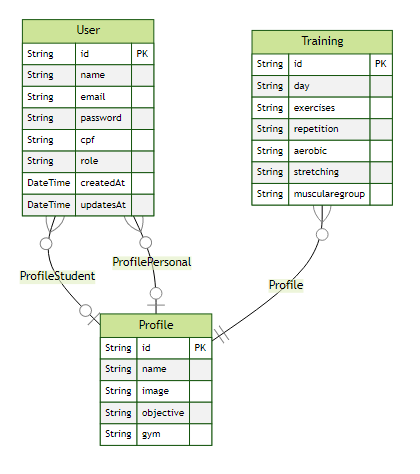
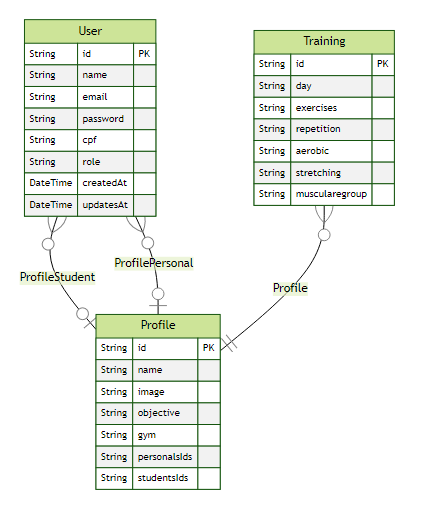
feat:putting the personalsIds in schema.prisma

Changed region(s): [[0.031, 0.0295, 0.9595, 0.9451]]

diff --git a/search-healthy/src/profile/profile.repository.ts b/search-healthy/src/profile/profile.repository.ts
@@ -17,7 +17,7 @@ export class ProfileRepository {
   constructor(private readonly prisma: PrismaService) {}
 
   async createProfile(
-    { name, image, objective, gym, }: CreateProfileDto,
+    { name, image, objective, gym, personalsIds,  }: CreateProfileDto,
     id: string,
   ): Promise<Profile> {
     try {
@@ -28,6 +28,7 @@ export class ProfileRepository {
           image: image,
           objective: objective,
           gym: gym,
+          personalsIds: personalsIds,
         },
         include: this.data,
       });
